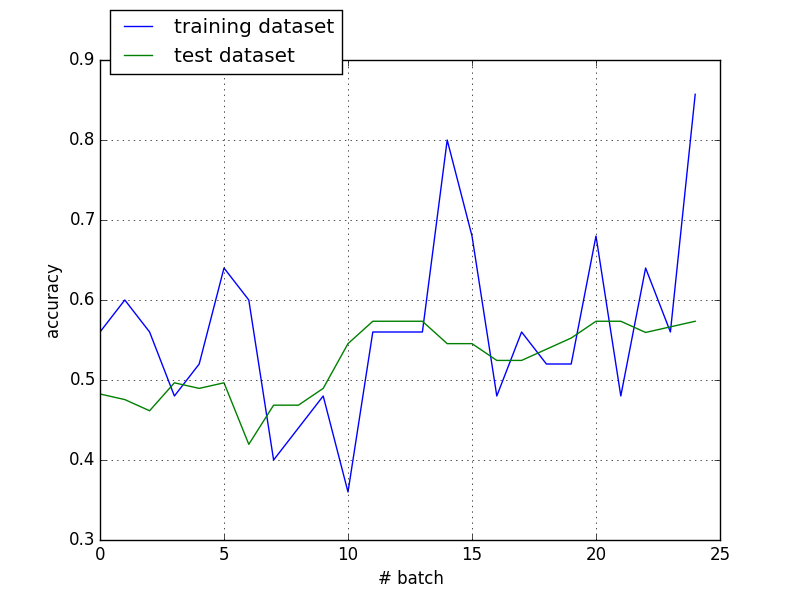
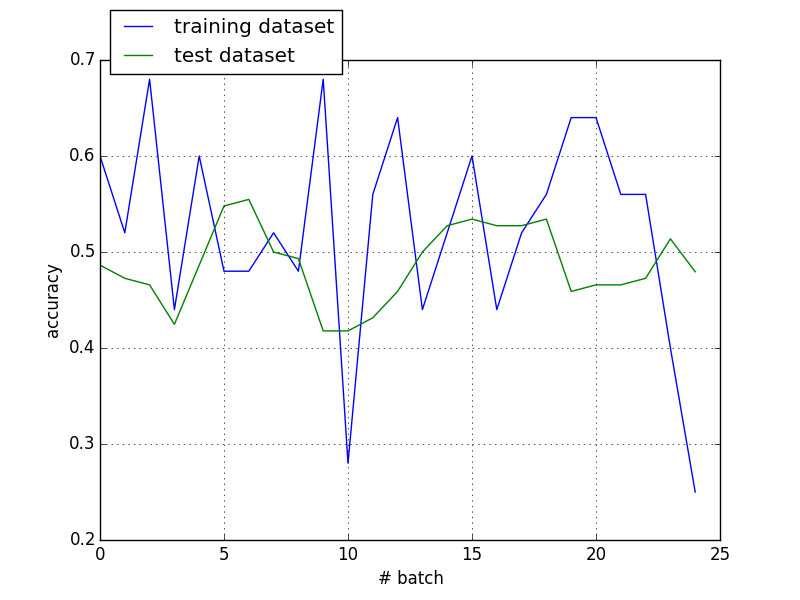
learning rate decay added

diff --git a/classifySadOrHappyRandomResults.py b/classifySadOrHappyRandomResults.py
@@ -98,12 +98,18 @@ def tensorPart(trainingSet,trainingLabels,testingSet,testingLabels,batchSize):
     # accuracy of the trained model, between 0 (worst) and 1 (best)
     correct_prediction = tf.equal(tf.argmax(Y, 1), tf.argmax(Y_, 1))
     accuracy = tf.reduce_mean(tf.cast(correct_prediction, tf.float32))
-    learning_rate = 0.0005
+    learning_rate = tf.placeholder(tf.float32)
     train_step = tf.train.AdamOptimizer(learning_rate).minimize(cross_entropy)
 
     init = tf.global_variables_initializer()
     sess = tf.Session()
     sess.run(init)
+
+    # set learning rate and learning rate decay
+    initial_learning_rate = 0.0005
+    decay_rate = 0.95
+    decay_steps = 500
+    stepCounter = 0
 
     # sets to plot
     train_a = []
@@ -113,6 +119,13 @@ def tensorPart(trainingSet,trainingLabels,testingSet,testingLabels,batchSize):
 
     # train the model in batches
     for step in range(0,len(trainingSet),batchSize):
+
+        #reduce the learning rate
+        if stepCounter > decay_steps:
+            lr = initial_learning_rate * decay_rate ** (int(stepCounter / decay_steps))
+        else:
+            lr = initial_learning_rate
+
         # use the next batch
         batchBegin = step
         batchEnd = step+batchSize
@@ -123,13 +136,15 @@ def tensorPart(trainingSet,trainingLabels,testingSet,testingLabels,batchSize):
         batch_Y = np.asarray(trainingLabels[batchBegin:batchEnd])
 
         # train
-        sess.run(train_step, feed_dict={X: batch_X, Y_: batch_Y})
+        sess.run(train_step, feed_dict={X: batch_X, Y_: batch_Y, learning_rate:lr})
         a, c = sess.run([accuracy, cross_entropy], feed_dict={X: batch_X, Y_: batch_Y})
         train_a.append(a)
         train_c.append(c)
         a, c = sess.run([accuracy, cross_entropy], feed_dict={X: testingSet, Y_: testingLabels})
         test_a.append(a)
         test_c.append(c)
+
+        stepCounter += 1
 
     return train_a, train_c, test_a, test_c
 
